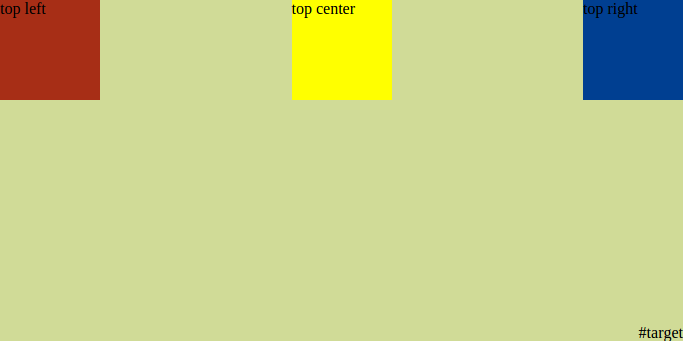
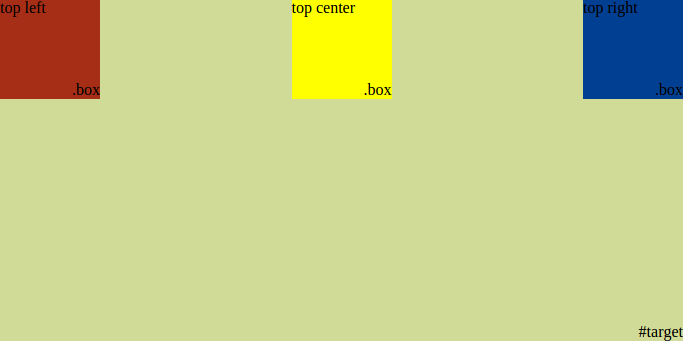
documentation update

diff --git a/demo/css/style.css b/demo/css/style.css
@@ -8,6 +8,13 @@ body { margin: 0; }
 	height: 100px;
 }
 
+.box:after {
+	content: '.box';
+	position: absolute;
+	right: 0;
+	bottom:0;
+}
+
 .center { 
 	left: 0;
 	right: 0;
@@ -57,5 +64,5 @@ body { margin: 0; }
 }
 
 #target > * {
-	position: static;
+	position: relative;
 }
